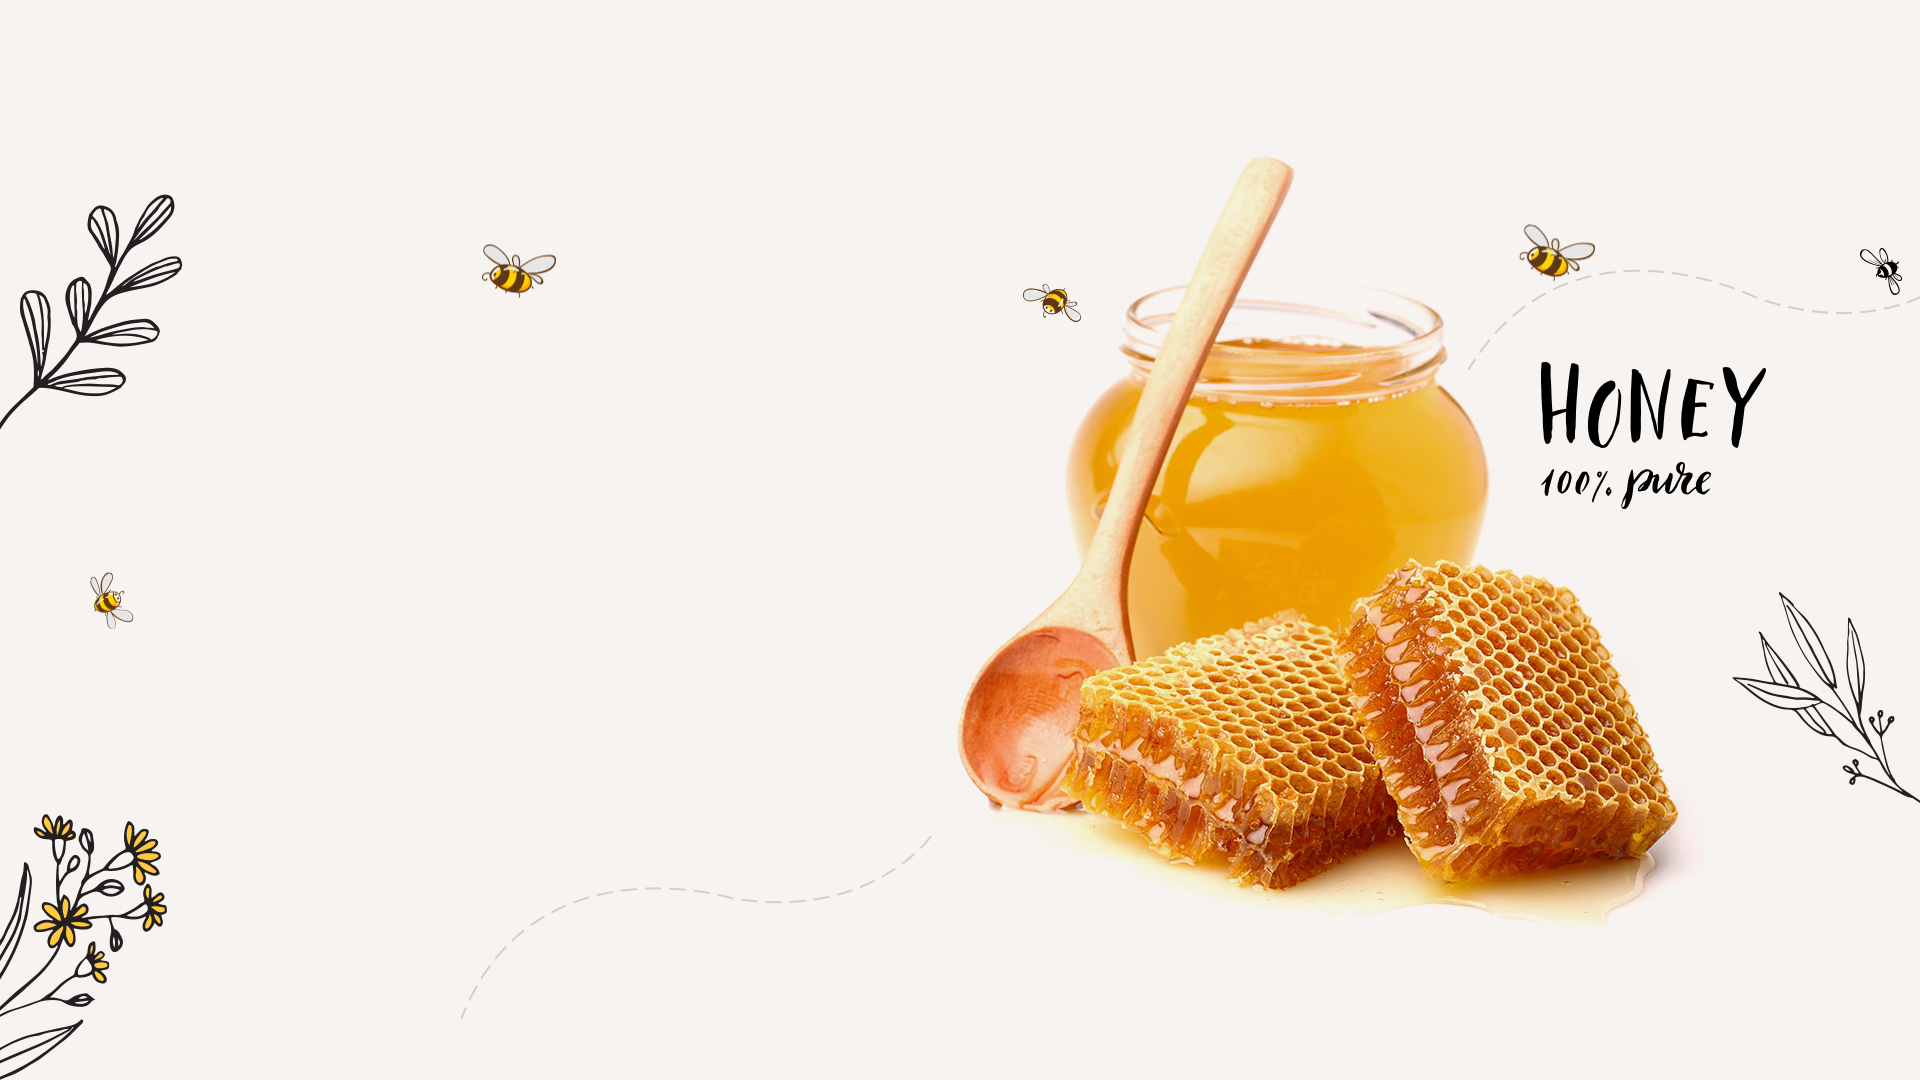
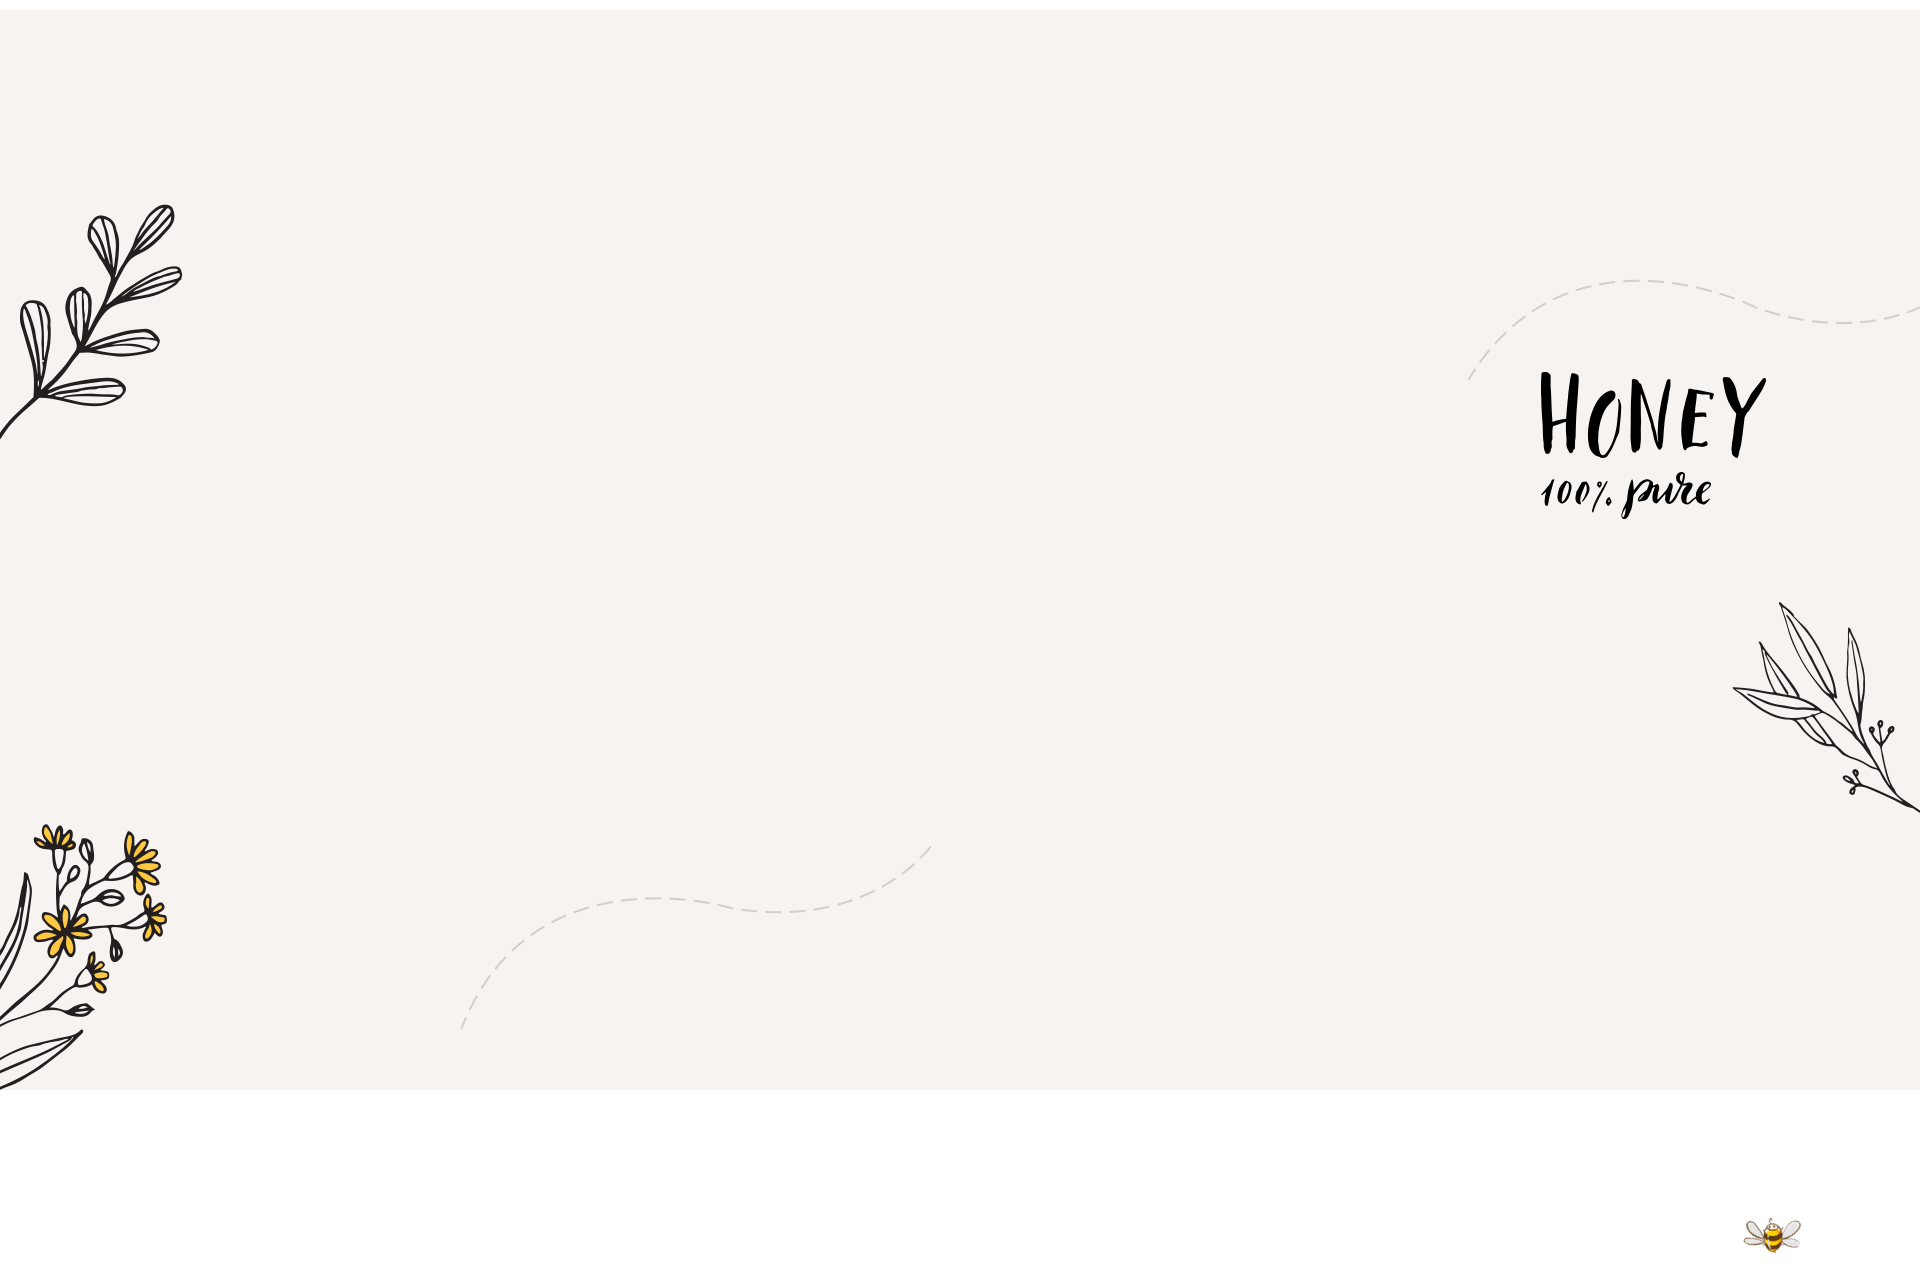
build - finish header and hero with responzive design

diff --git a/src/components/header/Header.tsx b/src/components/header/Header.tsx
@@ -1,25 +1,54 @@
 "use client";
 
-import React from "react";
+import React, { useEffect, useState } from "react";
 import Logo from "./Logo";
 import { FaBars } from "react-icons/fa6";
 import { FaXmark } from "react-icons/fa6";
-import { useDisplayNavbar } from "../../../store/useDisplayNavbar";
+import { useDisplayHeader, useDisplayNavbar } from "../../../store/navbarStore";
 import Navbar from "./Navbar";
 import Section from "../ui/Section";
 
 function Header() {
+  const [scrollY, setScrollY] = useState(0);
   const { displayNavbar, toggleDisplayNavbar } = useDisplayNavbar();
+  const { displayHeader, showDisplayHeader, hideDisplayHeader } =
+    useDisplayHeader();
+
+  function changeNavbar() {
+    setScrollY(window.scrollY);
+    if (scrollY > 50) {
+      showDisplayHeader();
+    } else {
+      hideDisplayHeader();
+    }
+  }
+
+  useEffect(() => {
+    window.addEventListener("scroll", changeNavbar);
+
+    // cleanup function
+    return () => {
+      window.removeEventListener("scroll", changeNavbar);
+    };
+  }, [scrollY]);
+
+  console.log(scrollY, displayHeader);
   return (
-    <Section className="p-4 border-b border-accent/50 md:border-none  flex-wrap md:flex-nowrap justify-between">
-      <div className="flex justify-between items-center w-full ">
-        <Logo />
-        <button className="md:hidden" onClick={() => toggleDisplayNavbar()}>
-          {displayNavbar ? <FaXmark className="text-primary" /> : <FaBars />}
-        </button>
+    <div
+      className={`p-4 border-b border-accent/50 md:border-none flex items-center justify-center  transition-all duration-300  top-0 z-30 w-full ${
+        displayHeader ? "fixed bg-slate-50" : "relative bg-transparent"
+      }`}
+    >
+      <div className="max-w-screen-lg flex items-center flex-wrap md:flex-nowrap justify-between w-full">
+        <div className="flex justify-between items-center w-full ">
+          <Logo />
+          <button className="md:hidden" onClick={() => toggleDisplayNavbar()}>
+            {displayNavbar ? <FaXmark className="text-primary" /> : <FaBars />}
+          </button>
+        </div>
+        <Navbar />
       </div>
-      <Navbar />
-    </Section>
+    </div>
   );
 }
 

diff --git a/src/components/hero/Hero.tsx b/src/components/hero/Hero.tsx
@@ -1,26 +1,37 @@
 import React from "react";
 import Section from "../ui/Section";
+import Image from "next/image";
 import Button from "../ui/Button";
 
 function Hero() {
+  const bgImage = "hero_bg.png";
   return (
     <>
-      <div id="intro" className="w-full  absolute left-0   z-0 bg-slate-50 ">
-        <img src="hero_bg.png" alt="heroImg" />
-      </div>
-      <Section className="relative z-10">
-        <div className="gap-1 lg:gap-3 flex flex-col w-3/5 max-w-[370px]">
-          <p className="uppercase md:text-xl lg:text-2xl">
+      <div
+        style={{ backgroundImage: `url(${bgImage})` }}
+        className="bg-cover flex bg-center bg-no-repeat w-full h-screen absolute left-0 top-0 z-0"
+      ></div>
+      <Section className="z-10  relative xl:h-[90vh] w-full justify-between  m-4 lg:m-12 xl:mx-auto">
+        <div className="w-3/5 flex gap-2 flex-col max-w-[370px] ">
+          <p className="text-md md:text-lg lg:text-xl uppercase">
             fresh & sweet as honey
           </p>
-          <h1 className="text-4xl md:text-5xl xl:text-7xl uppercase">
+          <h1 className="text-4xl md:text-5xl lg:text-7xl uppercase">
             Honey Bee
           </h1>
-          <p className="text-xs md:text-lg lg:text-xl">
+          <p className="text-sm md:text-md xl:text-xl ">
             Honey, a gift from nature, delights the senses with its unparalleled
             sweetness and timeless allure.
           </p>
-          <Button className="my-2 ">View More</Button>
+          <Button className="my-2">View More</Button>
+        </div>
+        <div className="w-2/5 md:w-max">
+          <Image
+            width={500}
+            height={500}
+            src="/honey_hero.png"
+            alt="hero honey"
+          />
         </div>
       </Section>
     </>

diff --git a/src/components/header/Navbar.tsx b/src/components/header/Navbar.tsx
@@ -2,10 +2,11 @@
 
 import Link from "next/link";
 import React from "react";
-import { useDisplayNavbar } from "../../../store/useDisplayNavbar";
+import { useDisplayNavbar } from "../../../store/navbarStore";
 
 function Navbar() {
   const { displayNavbar, toggleDisplayNavbar } = useDisplayNavbar();
+
   return (
     <>
       <nav
@@ -13,7 +14,7 @@ function Navbar() {
           displayNavbar
             ? "max-h-[350px] pointer-events-auto opacity-100"
             : "max-h-0 pointer-events-none opacity-0"
-        } transition-all duration-300 md:hidden w-full`}
+        } transition-all duration-300 md:hidden w-full `}
       >
         <ul className="flex flex-col gap-2 justify-center items-center pt-6 pb-4">
           <li
@@ -50,7 +51,7 @@ function Navbar() {
           </li>
         </ul>
       </nav>
-      <nav className="hidden md:block">
+      <nav className="hidden md:block md:mr-4">
         <ul className="flex flex-row gap-4 justify-center items-center ">
           <li onClick={() => toggleDisplayNavbar()}>
             <Link

diff --git a/store/navbarStore.ts b/store/navbarStore.ts
@@ -1,0 +1,26 @@
+import { create } from "zustand";
+
+type DisplayNavbar = {
+  displayNavbar: boolean;
+  toggleDisplayNavbar: (state?: boolean) => void;
+};
+
+export const useDisplayNavbar = create<DisplayNavbar>((set) => ({
+  displayNavbar: false,
+  toggleDisplayNavbar: () =>
+    set((state) => ({ displayNavbar: !state.displayNavbar })),
+}));
+
+type DisplayHeader = {
+  displayHeader: boolean;
+  showDisplayHeader: (state?: boolean) => void;
+  hideDisplayHeader: (state?: boolean) => void;
+};
+
+export const useDisplayHeader = create<DisplayHeader>((set) => ({
+  displayHeader: false,
+  showDisplayHeader: () =>
+    set((state) => ({ displayHeader: (state.displayHeader = true) })),
+  hideDisplayHeader: () =>
+    set((state) => ({ displayHeader: (state.displayHeader = false) })),
+}));

diff --git a/src/components/ui/Section.tsx b/src/components/ui/Section.tsx
@@ -1,16 +1,18 @@
-import React, { ReactNode } from "react";
+import React, { CSSProperties, ReactNode } from "react";
 import { cn } from "../../../utils/cn";
 
 type SectionProps = {
   children: ReactNode;
   className?: string;
+  style?: CSSProperties;
 };
 
-function Section({ children, className }: SectionProps) {
+function Section({ children, className, style }: SectionProps) {
   return (
     <div
+      style={style}
       className={cn(
-        "flex items-center w-full max-w-screen-xl m-auto",
+        "flex items-center w-full max-w-screen-lg m-auto",
         className
       )}
     >

diff --git a/src/app/layout.tsx b/src/app/layout.tsx
@@ -13,7 +13,10 @@ export default function RootLayout({
   children: React.ReactNode;
 }>) {
   return (
-    <html lang="en">
+    <html
+      lang="en"
+      className="scrollbar-thin scrollbar-track-transparent scrollbar-thumb-active overflow-x-hidden"
+    >
       <body className=" min-h-screen">{children}</body>
     </html>
   );

diff --git a/src/app/page.tsx b/src/app/page.tsx
@@ -4,10 +4,8 @@ import Hero from "@/components/hero/Hero";
 export default function Home() {
   return (
     <>
-      <header className="max-w-screen-xl m-auto">
-        <Header />
-      </header>
-      <main>
+      <Header />
+      <main className="relative">
         <Hero />
       </main>
       <footer></footer>

diff --git a/tailwind.config.ts b/tailwind.config.ts
@@ -16,6 +16,6 @@ const config: Config = {
       },
     },
   },
-  plugins: [],
+  plugins: [require("tailwind-scrollbar")],
 };
 export default config;
